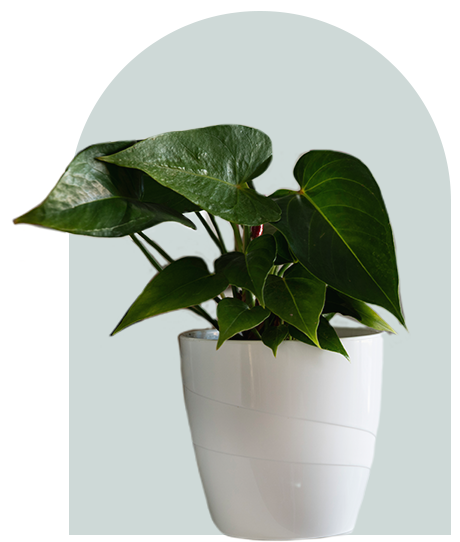
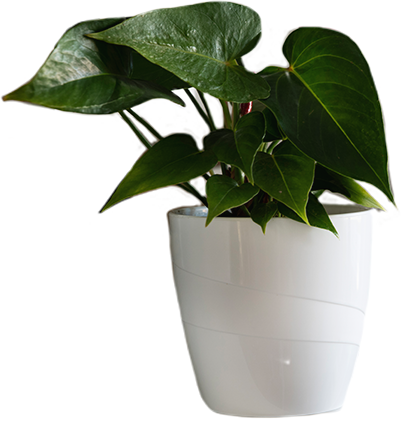
changed image position

diff --git a/public/css/style.css b/public/css/style.css
@@ -54,18 +54,26 @@ bottom: 12px;
 .plant-first{
     display: inline-block;
     position: absolute;
-    left: 30px;
+    left: 70px;
     top: 120px;
+    background: #cfd9da;
+    height: 320px;
+    width: 220px;
+    border-top-left-radius: 150px;
+    border-top-right-radius: 150px;
 
 }
 .plant-first img{
-    height: 320px;
+    height: 260px;
+    position:relative;
+    top: 65px;
+    right: 40px;
 }
 
 .content{
     position: absolute;
     top: 130px;
-    left: 400px;
+    left: 380px;
     width: 600px;
     line-height: 1.2;
 }
@@ -134,7 +142,7 @@ bottom: 12px;
 .plantb{
     position: absolute;
     top: 370px;
-    left: 400px;
+    left: 380px;
 }
 .plantb img{
     height: 200px;
@@ -142,7 +150,7 @@ bottom: 12px;
 .plantc{
     position: absolute;
     top: 370px;
-    left:580px;
+    left:560px;
 }
 .plantc img {
     height: 200px;
@@ -150,7 +158,7 @@ bottom: 12px;
 .plantd{
     position: absolute;
     top: 370px;
-    left:760px;
+    left:740px;
 }
 .plantd img{
     height: 200px;
@@ -171,10 +179,13 @@ bottom: 12px;
 }
 
 .corner-image {
-    position: absolute;
+    position: fixed;
     right: 0;
     bottom: 0;
 }
 .corner-image img{
     height: 120px;
+    position: fixed;
+    bottom: 0px;
+    right: 0px;
 }

diff --git a/index.html b/index.html
@@ -55,7 +55,7 @@
 <div class="plantd"><img src="public/images/plant_d.png" alt=""></div>
 <div class="contact">
     <div class="contact-us">Contact Us</div>
-    <div class="number">987 654 321</div>
+    <div class="number">123 987 654 321</div>
     <div class="username">@gardenhouse1</div>
 </div>
     <div class="corner-image">
